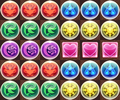
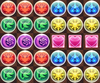
perfect board mod

diff --git a/data/dataset1/starting_boards.py b/data/dataset1/starting_boards.py
@@ -38,9 +38,9 @@ pb2 = np.array([[0, 0, 5, 0, 4],
 
 def main():
     env = ppad.PAD(board=pb1)
-    env.episode2gif(path=os.environ['PYTHONPATH']+'/visualizations/perfect_board1.png', shrink=5, ext='png')
+    env.episode2gif(path=os.environ['PYTHONPATH']+'/visualizations/perfect_board1.png', shrink=6, ext='png')
     env = ppad.PAD(board=pb2)
-    env.episode2gif(path=os.environ['PYTHONPATH']+'/visualizations/perfect_board2.png', shrink=5, ext='png')
+    env.episode2gif(path=os.environ['PYTHONPATH']+'/visualizations/perfect_board2.png', shrink=6, ext='png')
 
 
 if __name__ == "__main__":

diff --git a/README.md b/README.md
@@ -11,5 +11,6 @@ The project is still evolving but currently contains the following components:
 
 ### Generating training data from "perfect boards"
 Example of perfect boards:
+
 ![Perfect board 1](https://github.com/nuwapi/P-PAD/blob/master/visualizations/perfect_board1.png)
 ![Perfect board 2](https://github.com/nuwapi/P-PAD/blob/master/visualizations/perfect_board2.png)
